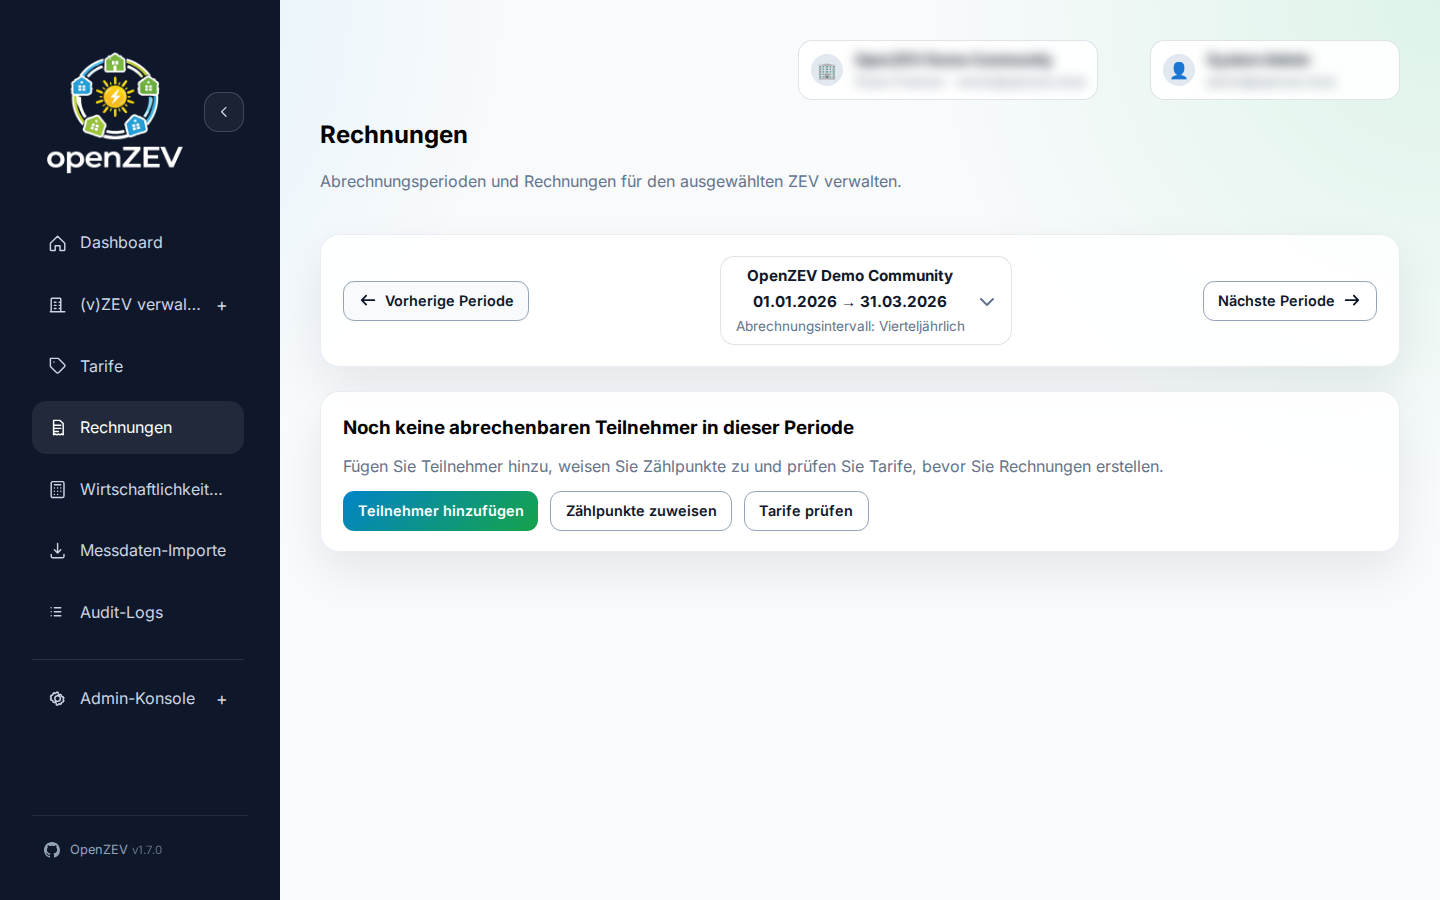
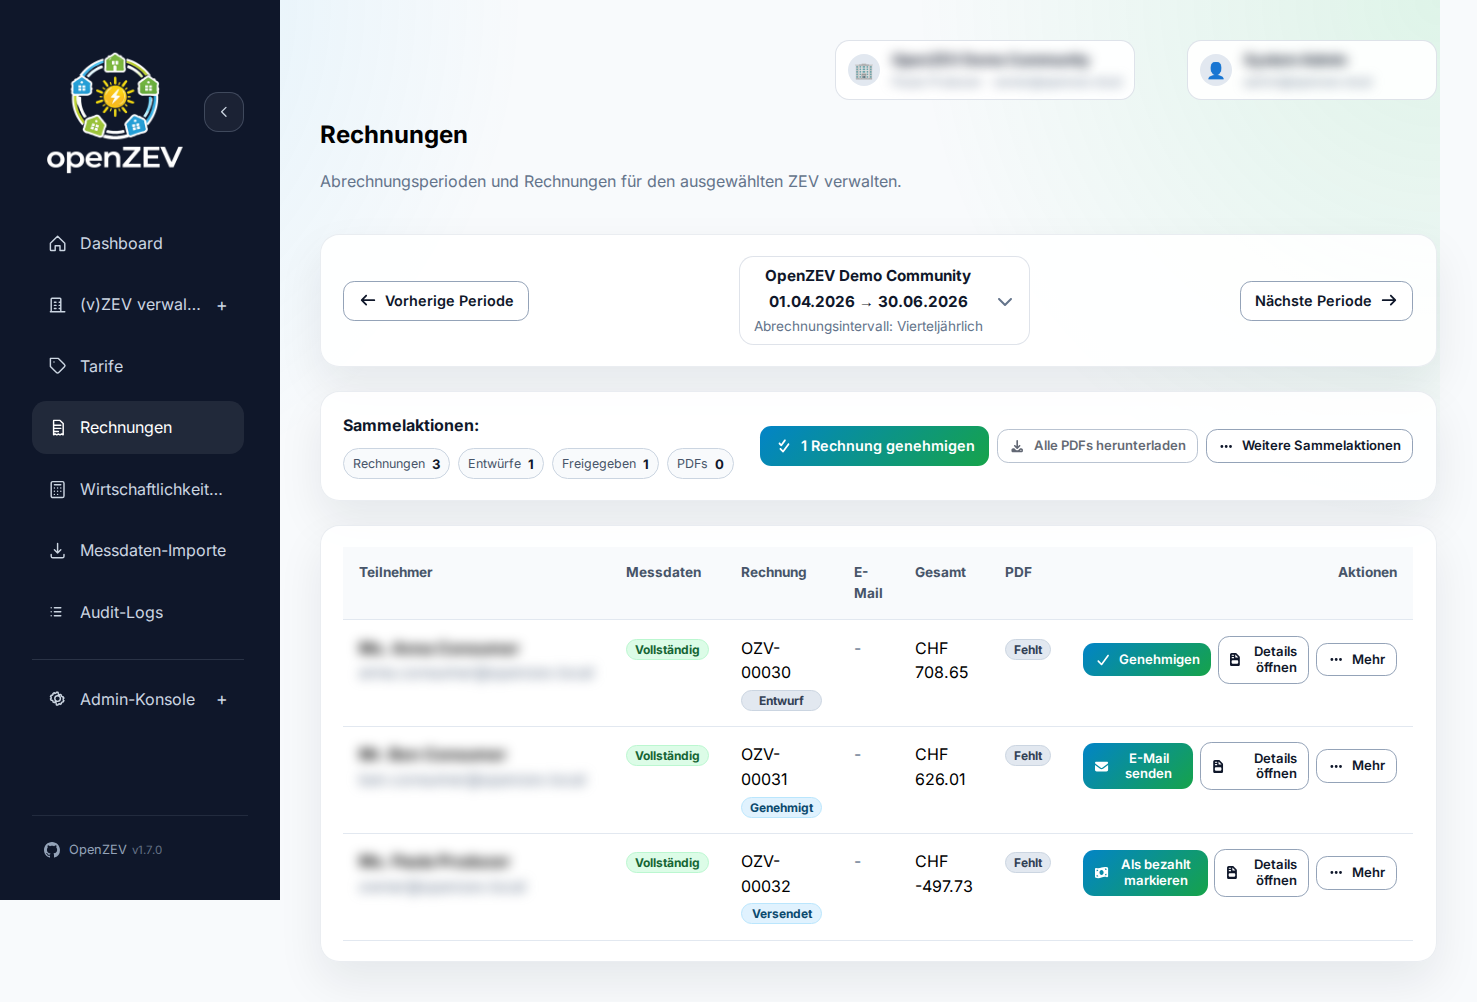
docs(user-guide): stop over-stepping the period on the invoices capture
The 08-invoices screenshot was empty. The capture stepped back one
billing period on every page that needed real data, but InvoicesPage
now opens on the last *complete* period already
(getPreviousBillingPeriod, "invoices can only be generated once a
period has ended"), so stepping back again landed a quarter earlier —
before anything seed_demo bills.

Dropped the step-back there. It stays on 02-dashboard,
02b-participant-dashboard and 05-metering-data, whose pages still open
on the current period via getCurrentBillingPeriod; 08b-invoice-detail
navigates straight to an invoice by id and never touched the selector.

Also corrected the goToPreviousPeriod docstring, which claimed pages
open on the current period as a blanket rule — that is what made the
invoices call look correct.

Verified against the compose stack: the capture now shows all three
seeded Q2 2026 invoices in their draft / approved / sent states, and
02-dashboard still lands on the same quarter with a full energy-flow
diagram.

diff --git a/frontend/screenshots/capture.spec.ts b/frontend/screenshots/capture.spec.ts
@@ -55,10 +55,16 @@ async function navigateTo(page: Page, urlPath: string) {
 /**
  * Step back one billing period.
  *
- * Pages open on the *current* period, which is still in progress and carries no
- * invoices. `seed_demo` bills the previous complete quarter, so the captures
- * that should show real data step back once. Matches the arrow icon rather than
- * the button label, which is translated.
+ * The dashboard and metering-data pages open on the *current* period
+ * (`getCurrentBillingPeriod`), which is still in progress and carries no
+ * readings worth showing, so those captures step back once to reach the
+ * quarter `seed_demo` fills.
+ *
+ * The invoices page is deliberately **not** among them: it already opens on
+ * the last complete period (`getPreviousBillingPeriod`), so stepping back
+ * there would overshoot into an empty one.
+ *
+ * Matches the arrow icon rather than the button label, which is translated.
  */
 async function goToPreviousPeriod(page: Page) {
   await page.locator('button:has(svg[data-icon="arrow-left"])').first().click()
@@ -505,8 +511,10 @@ test.describe('User Guide Screenshots', () => {
   test('08-invoices', async ({ page }) => {
     await navigateTo(page, '/invoices')
     await page.waitForSelector('table, .card', { timeout: 10_000 })
-    // Invoices are seeded for the last complete period, not the current one.
-    await goToPreviousPeriod(page)
+    // No step back here: InvoicesPage already opens on the last *complete*
+    // period (getPreviousBillingPeriod), which is the one seed_demo bills.
+    // Stepping back again would land a period earlier and capture an empty
+    // table.
     await screenshot(page, '08-invoices', 'invoices')
   })
 
